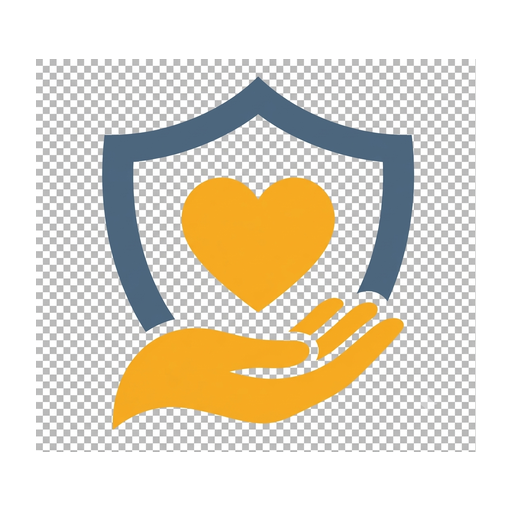
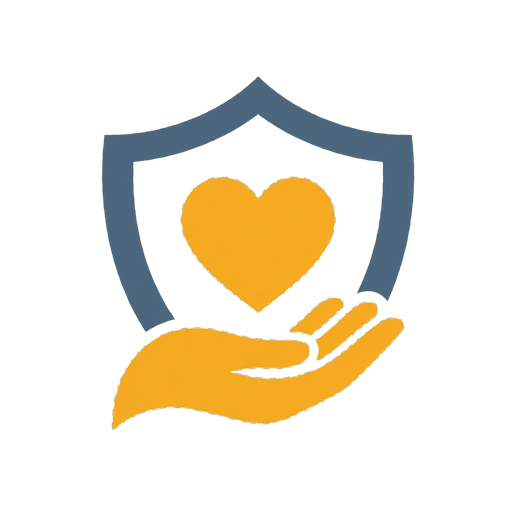
[Lote BJ] Corrigir fundo do logo1.png (xadrez gravado, não transparência)
O ficheiro logo1.png que o utilizador enviou tinha o fundo "transparente"
gravado como pixels reais em xadrez (branco/cinzento, alpha=255 em toda
a imagem) em vez de transparência verdadeira — visível como um xadrez
opaco atrás do escudo nos ícones gerados no Lote BI.

Cria-se store_assets/logo1_fundo_transparente.png: o mesmo desenho
(escudo, coração, mão, cores), com o fundo convertido para
transparência real (alpha gradual nas arestas anti-aliased, para não
deixar rebordo esbranquiçado). O ficheiro original do utilizador
(logo1.png) mantém-se intacto no repositório.

App, ícones do launcher Android e ícone da Play Store passam a usar
este ficheiro corrigido.

Changed region(s): [[0.0625, 0.0938, 0.9375, 0.9062], [0.625, 0.625, 0.6562, 0.6562]]

diff --git a/lib/shared/widgets/logo_app.dart b/lib/shared/widgets/logo_app.dart
@@ -9,6 +9,6 @@ class LogoApp extends StatelessWidget {
 
   @override
   Widget build(BuildContext context) {
-    return Image.asset('store_assets/logo1.png', height: size);
+    return Image.asset('store_assets/logo1_fundo_transparente.png', height: size);
   }
 }
